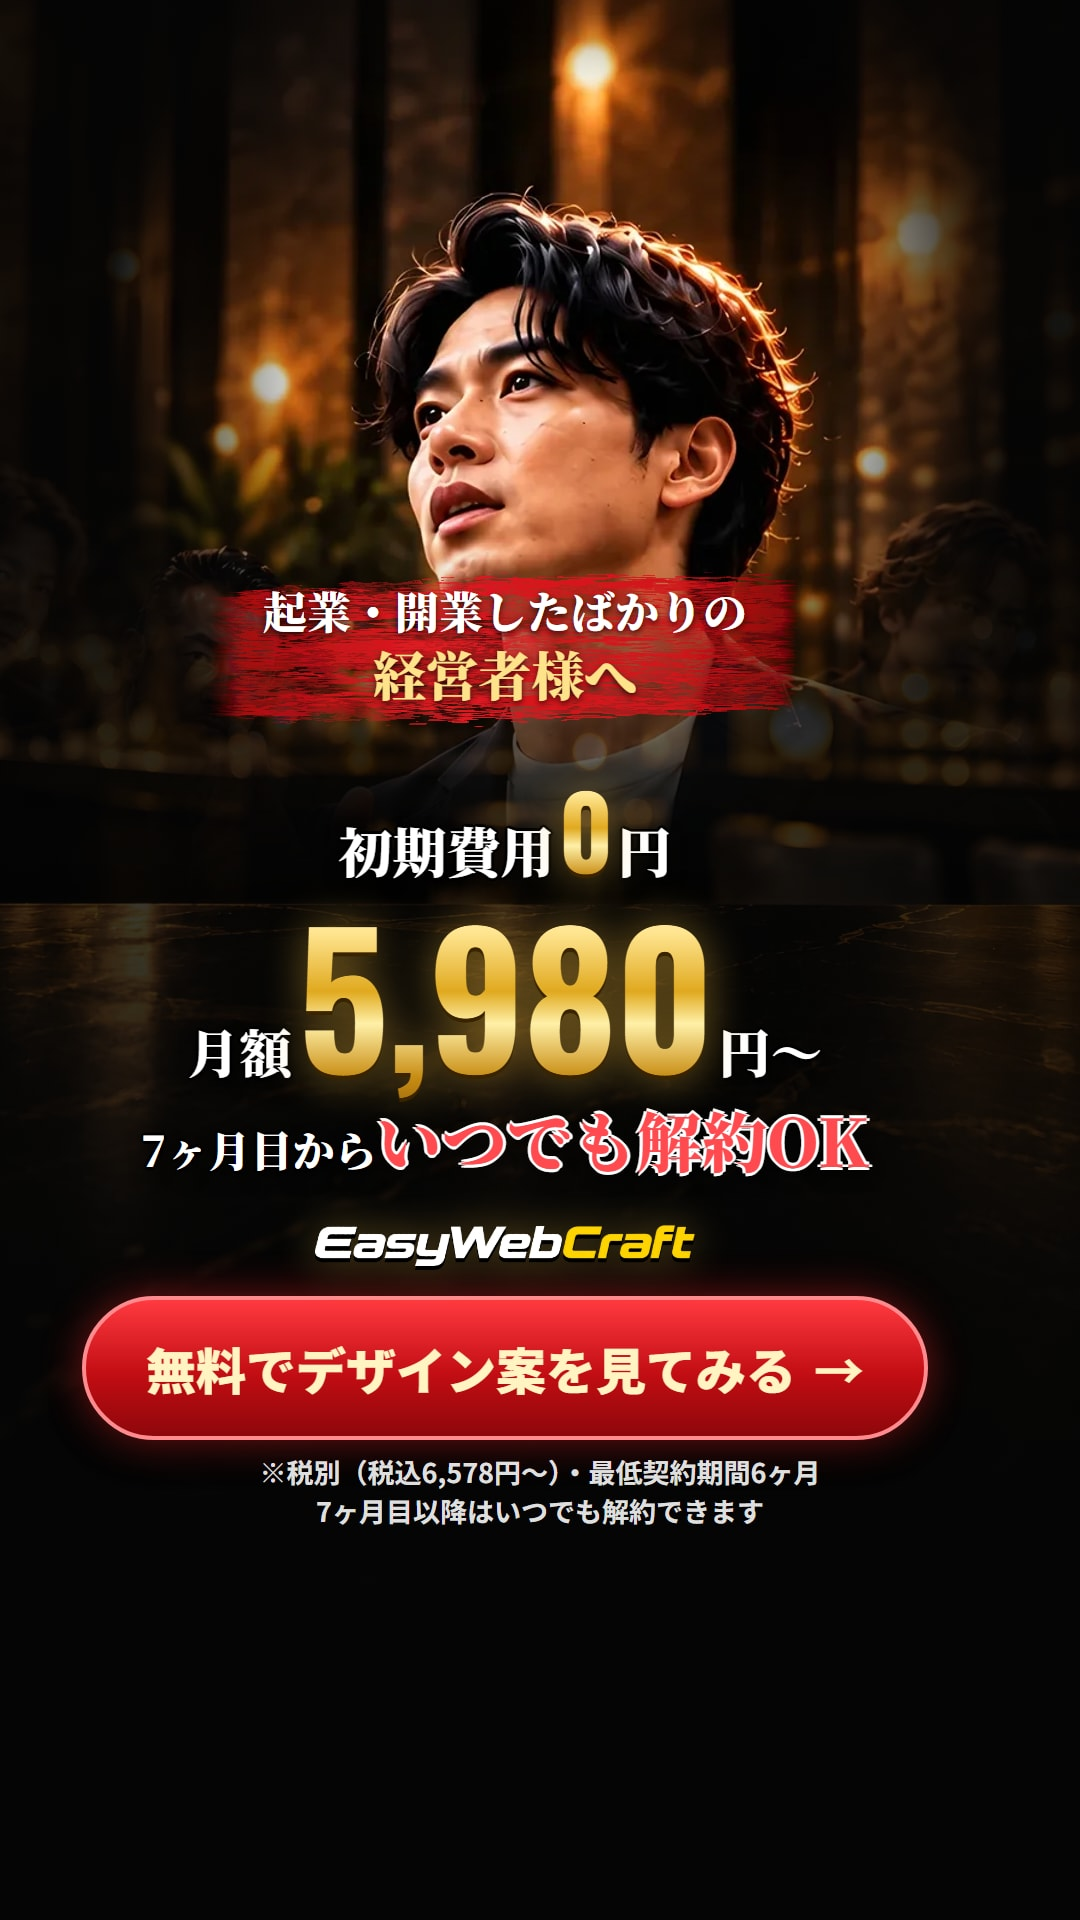
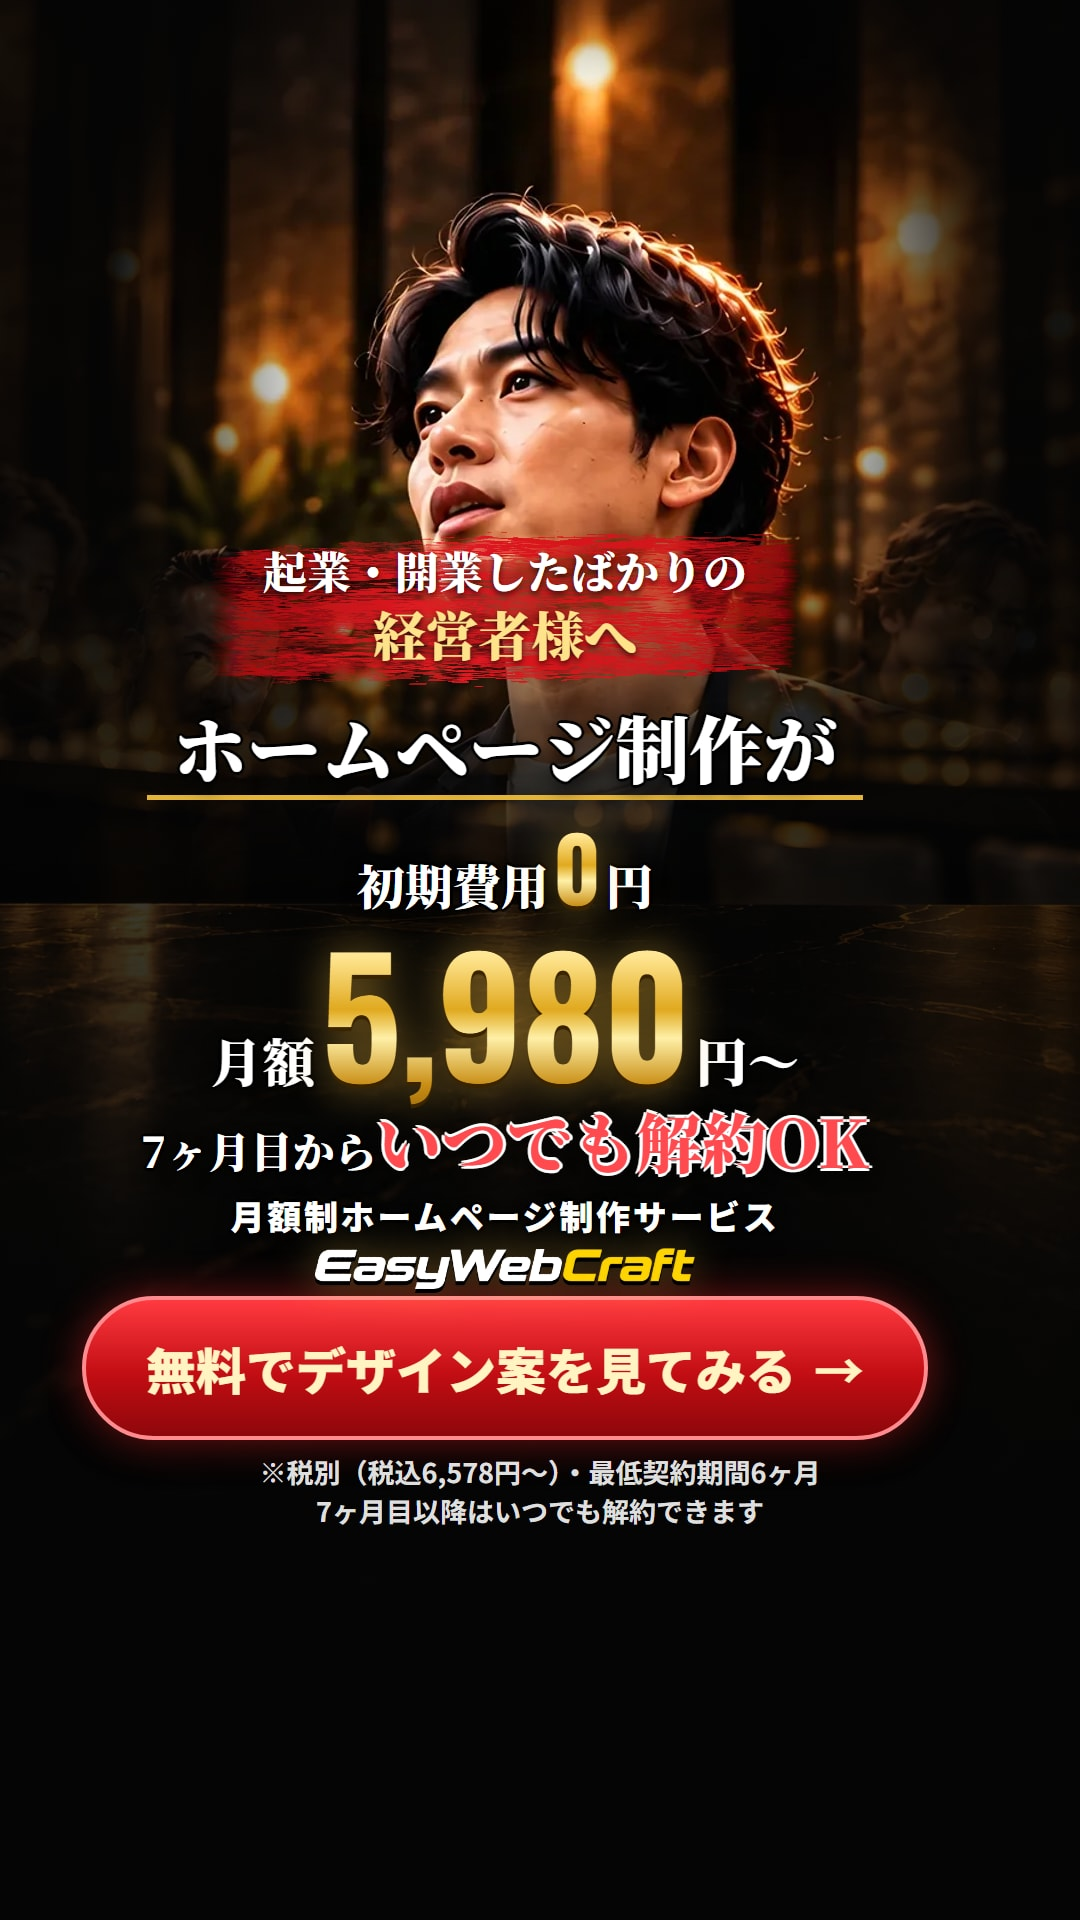
C1にホームページ制作であることを明記
Claude-Session: https://claude.ai/code/session_01G65TiHfa1BUco43NvNDLJF

Changed region(s): [[0.1528, 0.2812, 0.7944, 0.6875], [0.1528, 0.5938, 0.1833, 0.625]]

diff --git a/challenge/ads.html b/challenge/ads.html
@@ -101,6 +101,10 @@ body{width:1080px; font-family:"Noto Sans JP",sans-serif; color:#fff; background
 .checks.two{grid-template-columns:1fr 1fr}
 .checks.two div{padding:16px 22px; font-size:42px}
 #c5 .in{top:500px}
+
+.hpline{font-size:74px; line-height:1.2; color:#fff; padding:4px 26px; border-bottom:5px solid var(--gold)}
+.svc{margin-bottom:8px; font-weight:900; font-size:34px; letter-spacing:.08em}
+#c1 .in{top:520px}
 </style>
 </head>
 <body>
@@ -111,11 +115,13 @@ body{width:1080px; font-family:"Noto Sans JP",sans-serif; color:#fff; background
   <div class="in">
     <p class="label">起業・開業したばかりの<br><b>経営者様へ</b></p>
     <div class="g20"></div>
-    <p class="zero outline">初期費用<span class="n gold">0</span>円</p>
-    <p class="price outline" style="font-size:52px">月額<span class="n gold" style="font-size:180px">5,980</span>円〜</p>
+    <p class="serif outline hpline">ホームページ制作が</p>
+    <p class="zero outline" style="font-size:48px">初期費用<span class="n gold" style="font-size:88px">0</span>円</p>
+    <p class="price outline" style="font-size:52px">月額<span class="n gold" style="font-size:160px">5,980</span>円〜</p>
     <div class="g10"></div>
     <p class="cancel outline" style="font-size:42px">7ヶ月目から<em>いつでも解約OK</em></p>
-    <div class="sp"></div>
+    <div class="g20"></div>
+    <p class="svc outline">月額制ホームページ制作サービス</p>
     <img class="logo logo-s" src="img/logo-fv.webp" alt="EasyWebCraft">
     <div class="g30"></div>
     <p class="cta">無料でデザイン案を見てみる</p>
